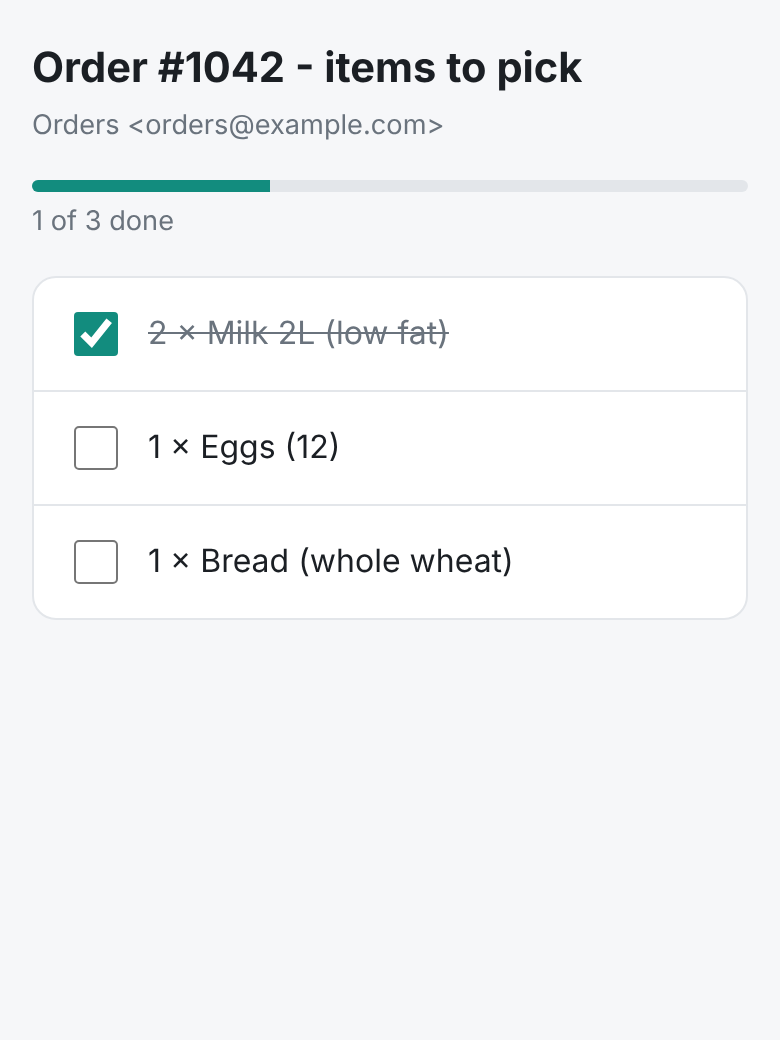
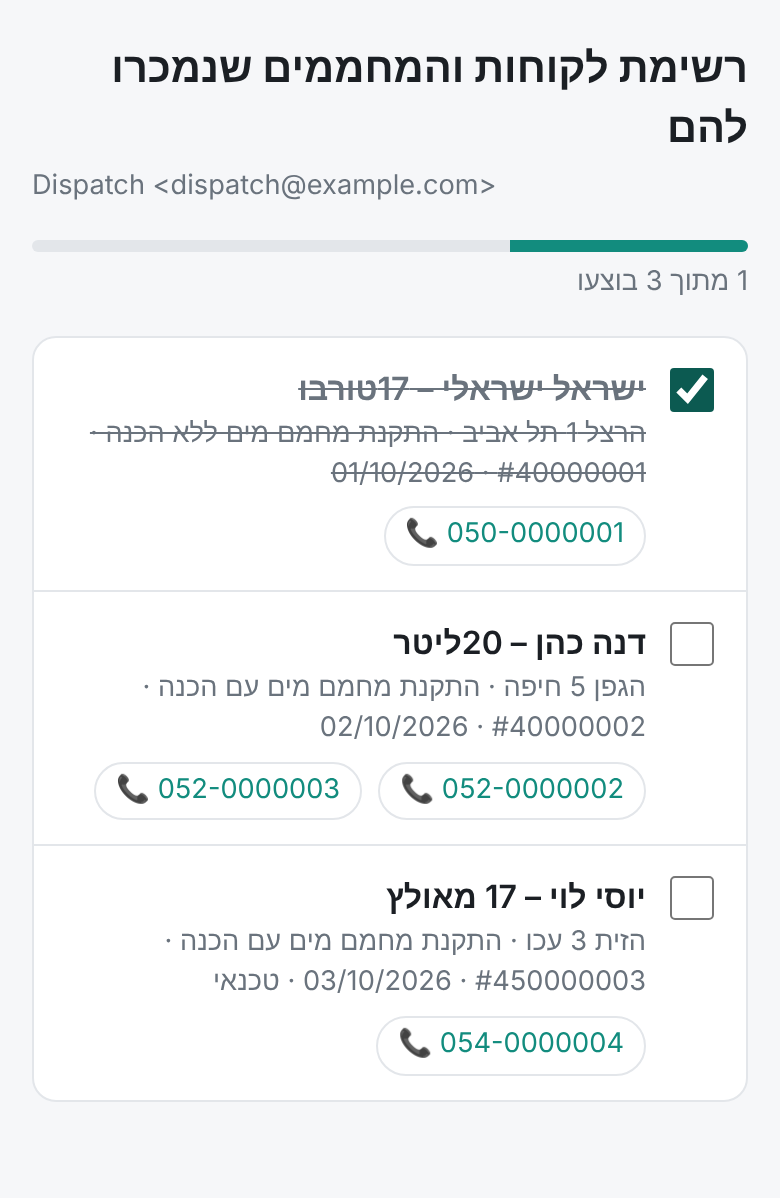
Support installation-list emails (Hebrew job rows)
- Extract job rows by field pattern (dates, order no., phones, address,
  yellow-highlighted heater) since columns shift between rows
- Store item details and phone numbers; tap-to-call buttons
- RTL layout for Hebrew/Arabic lists; strip Fwd:/Re: from titles
- Demo sample with fake data; real samples go in gitignored samples/private/

Claude-Session: https://claude.ai/code/session_01JUVTwAe5PD78CmkVU5JgfW

diff --git a/app/templates/list.html b/app/templates/list.html
@@ -1,5 +1,5 @@
 <!doctype html>
-<html lang="en">
+<html lang="{{ 'he' if rtl else 'en' }}" dir="{{ 'rtl' if rtl else 'ltr' }}">
 <head>
 <meta charset="utf-8">
 <meta name="viewport" content="width=device-width, initial-scale=1">
@@ -19,23 +19,31 @@
   .count { font-size:.85rem; color:var(--muted); margin-bottom:16px; }
   ul { list-style:none; padding:0; margin:0; background:var(--card); border:1px solid var(--line); border-radius:12px; }
   li + li { border-top:1px solid var(--line); }
-  label { display:flex; gap:12px; align-items:center; padding:14px 16px; cursor:pointer; }
-  input { width:22px; height:22px; accent-color:var(--accent); flex:none; }
+  label { display:flex; gap:12px; align-items:flex-start; padding:14px 16px 6px; cursor:pointer; }
+  label .t { font-weight:600; }
+  .d { display:block; color:var(--muted); font-size:.85rem; margin-top:2px; }
+  .calls { display:flex; flex-wrap:wrap; gap:8px; padding-block:0 12px; padding-inline:50px 16px; }
+  .calls a { font-size:.85rem; color:var(--accent); text-decoration:none; border:1px solid var(--line);
+             border-radius:999px; padding:4px 10px; direction:ltr; }
+  input { width:22px; height:22px; accent-color:var(--accent); flex:none; margin:1px 0 0; }
   input:checked + span { text-decoration:line-through; color:var(--muted); }
+  li:not(:has(.calls)) label { padding-bottom:14px; }
 </style>
 </head>
 <body>
 <main>
-  <h1>{{ lst.title }}</h1>
-  <div class="meta">{{ lst.sender }}</div>
+  <h1 dir="auto">{{ lst.title }}</h1>
+  <div class="meta" dir="auto">{{ lst.sender }}</div>
   <div class="bar"><i id="bar"></i></div>
   <div class="count" id="count"></div>
   <ul>
     {% for it in items %}
     <li><label>
       <input type="checkbox" data-id="{{ it.id }}" {% if it.done %}checked{% endif %}>
-      <span>{{ it.text }}</span>
-    </label></li>
+      <span dir="auto"><span class="t">{{ it.text }}</span>{% if it.detail %}<span class="d">{{ it.detail }}</span>{% endif %}</span>
+    </label>
+    {% if it.phones %}<div class="calls">{% for ph in it.phones.split(',') %}<a href="tel:{{ ph|replace('-','') }}">📞 {{ ph }}</a>{% endfor %}</div>{% endif %}
+    </li>
     {% endfor %}
   </ul>
 </main>
@@ -43,7 +51,7 @@
   const boxes = [...document.querySelectorAll('input[type=checkbox]')];
   function refresh() {
     const done = boxes.filter(b => b.checked).length;
-    document.getElementById('count').textContent = `${done} of ${boxes.length} done`;
+    document.getElementById('count').textContent = {{ 'rtl'|tojson }} === document.dir ? `${done} מתוך ${boxes.length} בוצעו` : `${done} of ${boxes.length} done`;
     document.getElementById('bar').style.width = (boxes.length ? 100 * done / boxes.length : 0) + '%';
   }
   boxes.forEach(b => b.addEventListener('change', async () => {

diff --git a/app/extractor.py b/app/extractor.py
@@ -1,17 +1,18 @@
 """Turn a fixed-layout email into checklist items.
 
-Default rules (adjust to your real layout once you have sample .eml files):
-  1. HTML: the first <table> whose header row contains a column named like ITEM_HEADERS.
-     Optional QTY_HEADERS / NOTE_HEADERS columns are picked up too.
-  2. HTML fallback: <li> elements.
-  3. Plain-text fallback: lines starting with "-", "*", "•" or "1." etc.
+Rules, tried in order:
+  1. Job rows (installation-list emails): table rows with a cell starting with JOB_PREFIX.
+     Columns shift between rows, so each field is recognised by its pattern, not position.
+  2. HTML table whose header row has a column named like ITEM_HEADERS (+ optional qty/note).
+  3. HTML <li> elements.
+  4. Plain-text lines starting with "-", "*", "•" or "1." etc.
 """
 from __future__ import annotations
 
 import re
-from dataclasses import dataclass
+from dataclasses import dataclass, field
 
-from bs4 import BeautifulSoup
+from bs4 import BeautifulSoup, Tag
 
 from .eml_parser import ParsedEmail
 
@@ -19,6 +20,13 @@ ITEM_HEADERS = {"item", "items", "product", "description", "name", "task"}
 QTY_HEADERS = {"qty", "quantity", "amount", "count"}
 NOTE_HEADERS = {"note", "notes", "comment", "remarks"}
 
+JOB_PREFIX = "התקנת"  # "installation of ..."
+_DATE = re.compile(r"^\d{1,2}/\d{1,2}/\d{4}$")
+_ORDER = re.compile(r"^\d{7,10}$")
+_PHONE = re.compile(r"^0\d{1,2}-?\d{7}$")
+_ADDRESS = re.compile(r"^\d{1,7}\s+\S")           # starts with a postal code (or 0)
+_HEATER = re.compile(r"\d{2}\s*\D+|\D+\s*\d{2}")    # "17 טורבו", "ליטר 20", "20ליטר"
+_YELLOW = re.compile(r"yellow|#?ffff00", re.I)
 _BULLET = re.compile(r"^\s*(?:[-*•]|\d+[.)])\s+(.+?)\s*$")
 
 
@@ -27,6 +35,7 @@ class Item:
     name: str
     qty: str = ""
     note: str = ""
+    phones: list[str] = field(default_factory=list)
 
     def label(self) -> str:
         s = f"{self.qty} × {self.name}" if self.qty else self.name
@@ -35,6 +44,51 @@ class Item:
 
 def _clean(s: str) -> str:
     return re.sub(r"\s+", " ", s).strip()
+
+
+def _is_yellow(cell: Tag) -> bool:
+    styles = [cell.get("style") or "", str(cell.get("bgcolor") or "")]
+    styles += [t.get("style") or "" for t in cell.find_all(style=True)]
+    return any(_YELLOW.search(s) for s in styles)
+
+
+def _from_job_rows(soup: BeautifulSoup) -> list[Item]:
+    items = []
+    for row in soup.find_all("tr"):
+        cells = row.find_all(["td", "th"], recursive=False) or row.find_all(["td", "th"])
+        texts = [_clean(c.get_text()) for c in cells]
+        if not any(t.startswith(JOB_PREFIX) for t in texts):
+            continue
+
+        job = name = address = order = heater = ""
+        dates, phones, rest = [], [], []
+        for cell, t in zip(cells, texts):
+            if not t:
+                continue
+            if t.startswith(JOB_PREFIX) and not job:
+                job = t
+            elif _DATE.match(t):
+                dates.append(t)
+            elif _PHONE.match(t):
+                if t not in phones:
+                    phones.append(t)
+            elif _ORDER.match(t) and not order:
+                order = t
+            elif _ADDRESS.match(t) and not address:
+                address = re.sub(r"^\d+\s+['\"\s]*", "", t)  # drop postal code + stray quotes
+            elif not heater and (_is_yellow(cell) or _HEATER.fullmatch(t)):
+                heater = t
+            elif order and not name:
+                name = t  # first free-text cell after the order number
+            else:
+                rest.append(t)
+
+        if not (name or order):
+            continue
+        title = " – ".join(x for x in (name or f"#{order}", heater) if x)
+        details = [address, job, f"#{order}" if order and name else "", dates[-1] if dates else "", *rest]
+        items.append(Item(title, note=" · ".join(x for x in details if x), phones=phones))
+    return items
 
 
 def _from_table(soup: BeautifulSoup) -> list[Item]:
@@ -66,9 +120,9 @@ def _from_table(soup: BeautifulSoup) -> list[Item]:
 def extract_items(email: ParsedEmail) -> list[Item]:
     if email.html:
         soup = BeautifulSoup(email.html, "html.parser")
-        items = _from_table(soup)
-        if items:
-            return items
+        for rule in (_from_job_rows, _from_table):
+            if items := rule(soup):
+                return items
         lis = [_clean(li.get_text()) for li in soup.find_all("li")]
         if lis := [x for x in lis if x]:
             return [Item(x) for x in lis]

diff --git a/tests/test_installs.py b/tests/test_installs.py
@@ -1,0 +1,35 @@
+"""Installation-list layout (forwarded job rows, no header row, shifting columns)."""
+import re
+from pathlib import Path
+
+import pytest
+
+from app.eml_parser import parse_file
+from app.extractor import extract_items
+
+SAMPLES = Path(__file__).parent.parent / "samples"
+
+
+def test_demo_installs():
+    items = extract_items(parse_file(SAMPLES / "example_installs.eml"))
+    assert [i.name for i in items] == ["ישראל ישראלי – 17טורבו", "דנה כהן – 20ליטר", "יוסי לוי – 17 מאולץ"]
+    assert items[0].phones == ["050-0000001"]                 # duplicate phone collapsed
+    assert items[1].phones == ["052-0000002", "052-0000003"]
+    assert items[0].note.startswith("הרצל 1 תל אביב")        # postal code dropped
+    assert "#450000003" in items[2].note and "טכנאי" in items[2].note
+
+
+# Real email kept out of git (samples/private/ is ignored). Only shapes are asserted here,
+# so no personal data ends up in the repository.
+PRIVATE = SAMPLES / "private" / "installs.eml"
+
+
+@pytest.mark.skipif(not PRIVATE.exists(), reason="private sample not present")
+def test_private_installs_shape():
+    items = extract_items(parse_file(PRIVATE))
+    assert len(items) == 7
+    for it in items:
+        assert " – " in it.name                                  # name – heater
+        assert it.phones and all(re.fullmatch(r"0\d{1,2}-\d{7}", p) for p in it.phones)
+        assert re.search(r"#\d{7,10}", it.note)
+        assert not re.match(r"^\W", it.note)                     # no stray quote / postal code

diff --git a/app/poller.py b/app/poller.py
@@ -9,6 +9,7 @@ from __future__ import annotations
 
 import argparse
 import logging
+import re
 import time
 
 from . import whatsapp
@@ -28,13 +29,14 @@ def process(email: ParsedEmail, msg_id: str, store: Store, s: Settings, dry_run:
     if not items:
         log.warning("no items found in %r — check extractor rules", email.subject)
         return None
-    token = store.create(msg_id, email.subject, email.sender, items)
+    title = re.sub(r"^\s*((fwd?|fw|re|הועבר)\s*:\s*)+", "", email.subject, flags=re.I).strip() or email.subject
+    token = store.create(msg_id, title, email.sender, items)
     link = f"{s.base_url}/l/{token}"
-    log.info("created %d-item list %r -> %s", len(items), email.subject, link)
+    log.info("created %d-item list %r -> %s", len(items), title, link)
     if dry_run or not (s.wa_token and s.wa_phone_id and s.wa_to):
-        print("[WhatsApp preview]", whatsapp.preview(email.subject, len(items), link))
+        print("[WhatsApp preview]", whatsapp.preview(title, len(items), link))
     else:
-        whatsapp.send(s, email.subject, len(items), link)
+        whatsapp.send(s, title, len(items), link)
     return token
 
 

diff --git a/app/store.py b/app/store.py
@@ -21,6 +21,8 @@ CREATE TABLE IF NOT EXISTS items (
     list_id INTEGER NOT NULL REFERENCES checklists(id) ON DELETE CASCADE,
     pos INTEGER NOT NULL,
     text TEXT NOT NULL,
+    detail TEXT NOT NULL DEFAULT '',
+    phones TEXT NOT NULL DEFAULT '',
     done INTEGER NOT NULL DEFAULT 0
 );
 """
@@ -44,8 +46,11 @@ class Store:
                 (token, msg_id, title, sender, datetime.now(timezone.utc).isoformat()),
             )
             self.db.executemany(
-                "INSERT INTO items(list_id, pos, text) VALUES (?,?,?)",
-                [(cur.lastrowid, i, it.label()) for i, it in enumerate(items)],
+                "INSERT INTO items(list_id, pos, text, detail, phones) VALUES (?,?,?,?,?)",
+                [
+                    (cur.lastrowid, i, f"{it.qty} × {it.name}" if it.qty else it.name, it.note, ",".join(it.phones))
+                    for i, it in enumerate(items)
+                ],
             )
         return token
 

diff --git a/app/web.py b/app/web.py
@@ -1,6 +1,7 @@
 """Checklist web app.  Run:  uvicorn app.web:app --host 0.0.0.0 --port 8000"""
 from __future__ import annotations
 
+import re
 from pathlib import Path
 
 from fastapi import FastAPI, HTTPException, Request
@@ -26,7 +27,8 @@ def checklist(request: Request, token: str):
     lst, items = store.get(token)
     if lst is None:
         raise HTTPException(404, "Checklist not found")
-    return templates.TemplateResponse(request, "list.html", {"lst": lst, "items": items})
+    rtl = bool(re.search(r"[\u0590-\u06FF]", lst["title"]))  # Hebrew / Arabic
+    return templates.TemplateResponse(request, "list.html", {"lst": lst, "items": items, "rtl": rtl})
 
 
 @app.post("/l/{token}/items/{item_id}/toggle")
